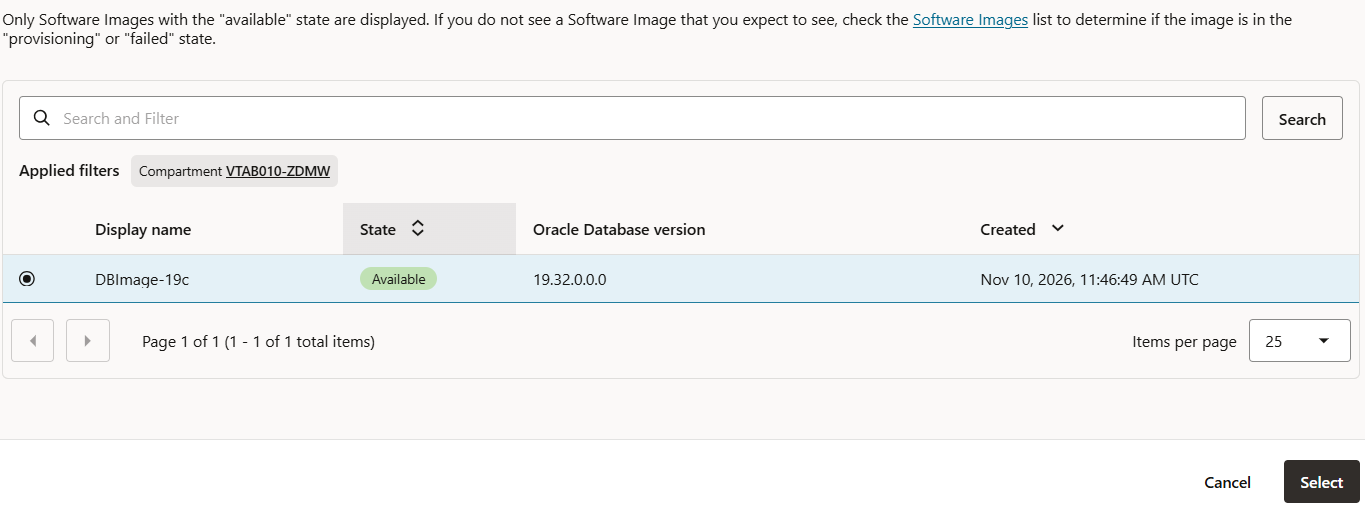
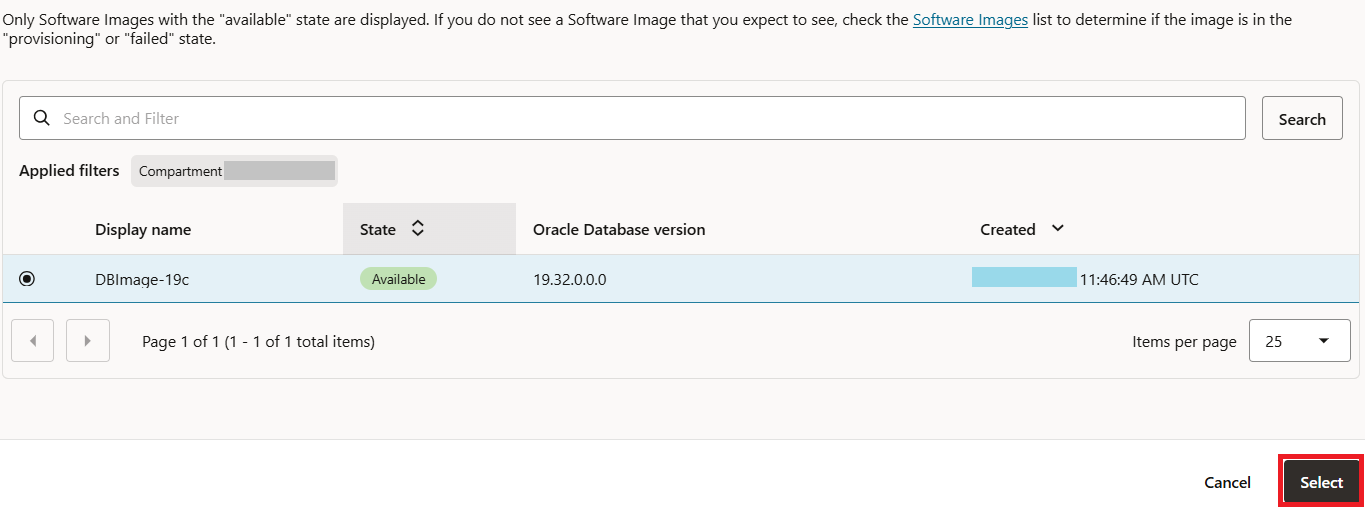
commit

Changed region(s): [[0.9231, 0.8841, 1.0, 1.0], [0.7077, 0.501, 0.8, 0.5894], [0.1538, 0.2947, 0.2462, 0.3536]]

diff --git a/zdm-physical-online-direct-data-transfer/target-db-provision/target-db-provision.md b/zdm-physical-online-direct-data-transfer/target-db-provision/target-db-provision.md
@@ -8,7 +8,7 @@ The placeholder target database gets overwritten with the source database files 
 
 Please note as of Zero Downtime Migration Release 21.3 , only Grid Infrastructure-based database services are supported as targets. For example, an LVM-based instance or an instance created in compute node without Grid Infrastructure are not supported targets.
 
-You should use the recommended console/commandline/APIs for creation of a target placeholder database.
+You should use the recommended console/command line/APIs for creation of a target placeholder database.
 
 Estimated Time: 30 minutes
 
@@ -28,17 +28,17 @@ In this lab
 
 ## Task 1 : Collect source database details
 
-1. Check the Operating System version of the source database.
+1. Check the operating system version of the source database.
 
    For this lab you have deployed source database on Oracle Linux 8.
 
-   You can use this lab with your source database as well , however ensure that the Operating System is Linux.
+   You can use this lab with your specific source database as well , however ensure that the operating system is Linux.
 
 2. Establish connection to source database.
 
-   Please follow below steps to establish connection to source database using SQL*PLUS.
+   Please follow below steps to establish connection to source database deployed in previous lab.
 
-   Login to source database compute using private IP and ssh key (generated in Lab 1)
+   Login to source database compute using private IP(refer lab 2) and ssh key (generated in Lab 1)
 
    Username to login : **opc** 
 
@@ -64,7 +64,7 @@ In this lab
 
    In case you would like know the database edition for your on-premises database then refer the below steps.
 
-   Execute the below query after connecting to source database using connection established in step 2.
+   Execute the below query after connecting to source database.
 
     ```console
     <copy>
@@ -88,7 +88,7 @@ In this lab
     </copy>
     ```
    
-   In the query output **NLS\_CHARACTERSET** is the database characterset and **NLS\_NCHAR\_CHARACTERSET** is the national characterset.
+   In the query output ,  **NLS\_CHARACTERSET** is the database characterset and **NLS\_NCHAR\_CHARACTERSET** is the national characterset.
 
    Sample output is shown below.
 
@@ -131,7 +131,7 @@ In this lab
 
 3. Make below selections on the **Create software image** page.
 
-   Image Type: **Database Software image**
+   Image Type: **Database software image**
 
    Display name: **DBImage-19c**
 
@@ -145,13 +145,13 @@ In this lab
 
    Database Version Release Update: **19.32.0.0.0** ( Please ensure that you are selecting a version which is same or higher version than source database).
 
-   one-off patches : Specify the one-off patches applicable on the target database home. You can leave it null for this Lab since there are no specific one-off patches applied on source database.
+   one-off patches : Specify the one-off patches applicable on the target database home. You can leave it null for this Lab since there are no specific one-off patches applied on source database. Alternatively , you can also upload the patch inventory from source database , you don't need to do this for this lab.
 
    ![Image showing database version selected for Image ](./images/lab3-t2-s4.png)
 
    Select **Create** to proceed with image creation.
 
-   You may get a new screen asking you to confirm the risk of going with database version which is N-1 where N is the latest RU.
+   You may get a new screen asking you to confirm the risk of selecting a database version which is N-1 where N is the latest RU.
 
    Please wait for the completion of this task before proceeding to the next task.
    
@@ -167,7 +167,7 @@ In this lab
     
    ![Image showing Create DB system option](./images/lab3-t3-s2.png)
 
-3. Make below selections on the **Create DB System** page.
+3. Make below selections on the **Create DB System** window.
 
    DB system name: **zdm-target-db** 
    
@@ -216,15 +216,15 @@ In this lab
 
     ![Image showing selectio of license type](./images/lab3-t3-s8.png)
 
-9. Specify below for the network information.
+9. Specify below for the **Network Information**.
 
-   Compartment: Compartment of VCN
+   Compartment: Compartment of **zdm-vcn**
    
-   Virtual Cloud Network: **zdm-vcn**
+   Virtual cloud network: **zdm-vcn**
 
-   Compartment: Compartment of subnet which is same as the compartment for **zdm-vcn** for this lab.
+   Compartment: Compartment of **zdm-vcn-priv** subnet
    
-   Client Subnet: **zdm-vcn-priv**
+   Client subnet: **zdm-vcn-priv**
 
    Hostname prefix: **zdm-target-db**
 
@@ -256,7 +256,7 @@ In this lab
 
     ![Image showing selection of Database Software Image](./images/lab3-t3-s11-b.png)
 
-    Select the appropriate compartment and remove the **Database version 26ai** image filter shown in red rectangle below.
+    Select the compartment of the software image create in task 2 and remove the **Database version 26ai** image filter shown in red rectangle below.
 
     ![Image showing 26ai database software images filter](./images/lab3-t3-s11-c.png)
 
@@ -272,7 +272,7 @@ In this lab
 
 12. Provide Administrator credentials.
 
-    Enter SYS password which is same as the SYS password of the source database.
+    Enter **sys** user password which is same as the **sys** password of the source database.
 
      ![Image showing the provision to enter SYS password](./images/lab3-t3-s12.png)
 
@@ -292,7 +292,7 @@ In this lab
 
     Ensure that you have selected same database and national characterset as the source database.
 
-    In this lab source database has below Database and National Characterset.
+    In this lab source database has below database and national characterset.
 
     Database Characterset : AL32UTF8
 
@@ -308,7 +308,7 @@ In this lab
 
     ![Image showing the option to start the provisioning](./images/lab3-t3-s15.png)
 
-    This step is going to take up to 1 hour , however you can proceed to next lab while DB System is being provisioned.
+    This step may take up to 1 hour , however you can proceed to next lab while DB System is being provisioned.
 
 You may now **proceed to the next lab**.
 
